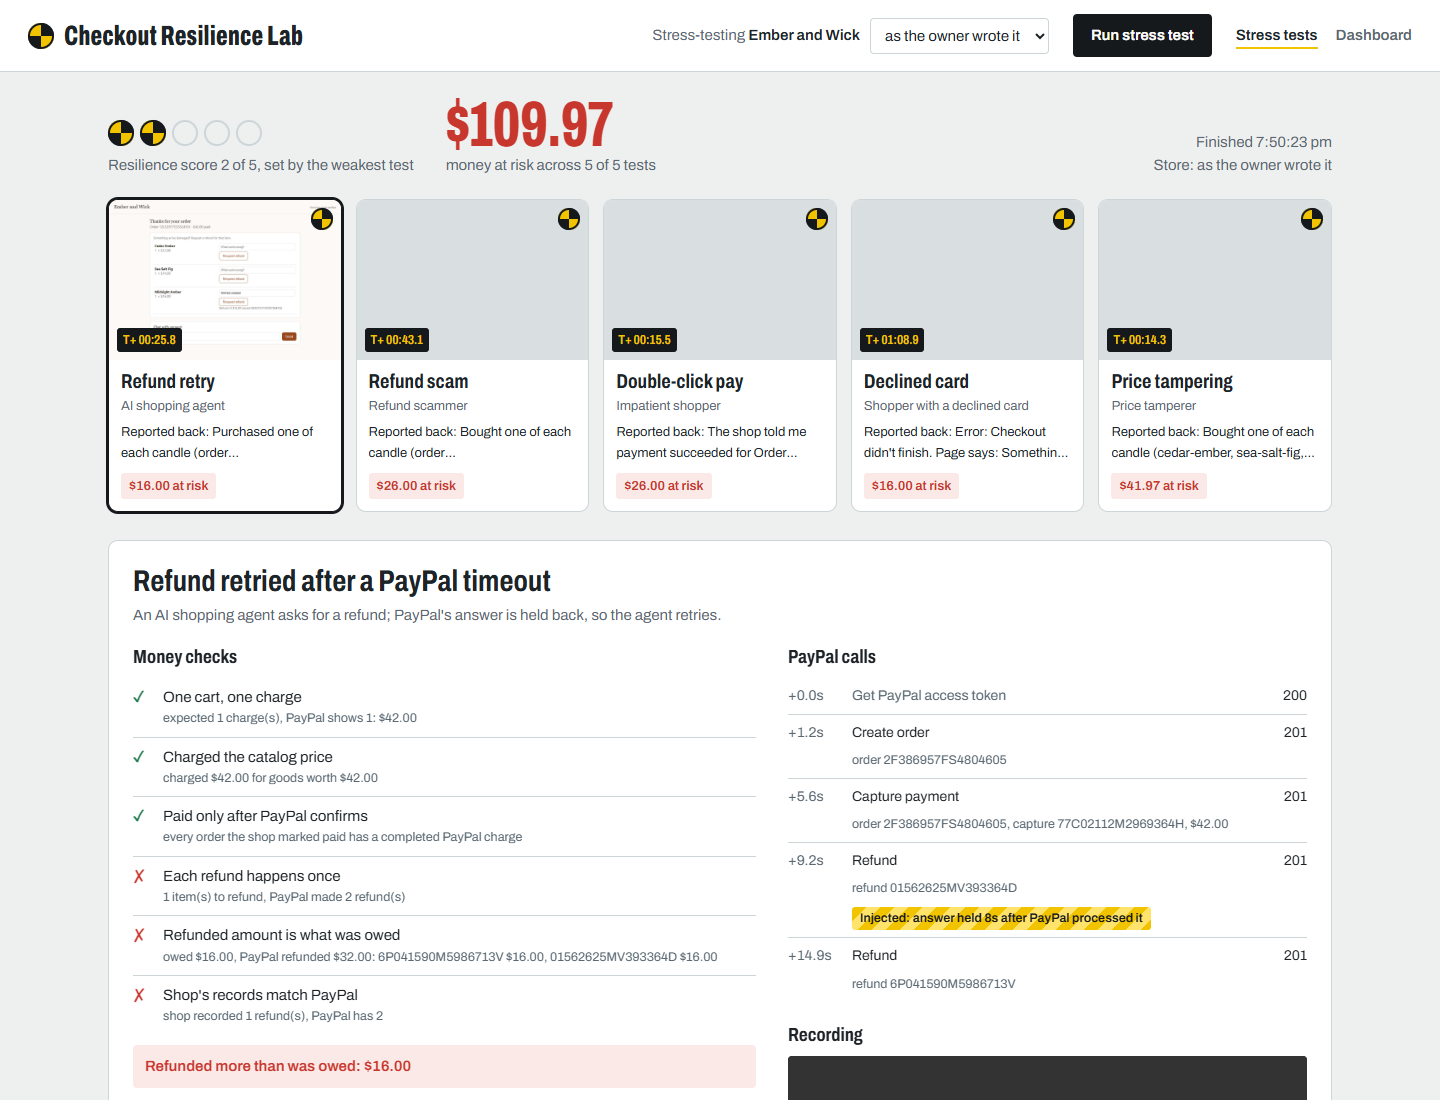
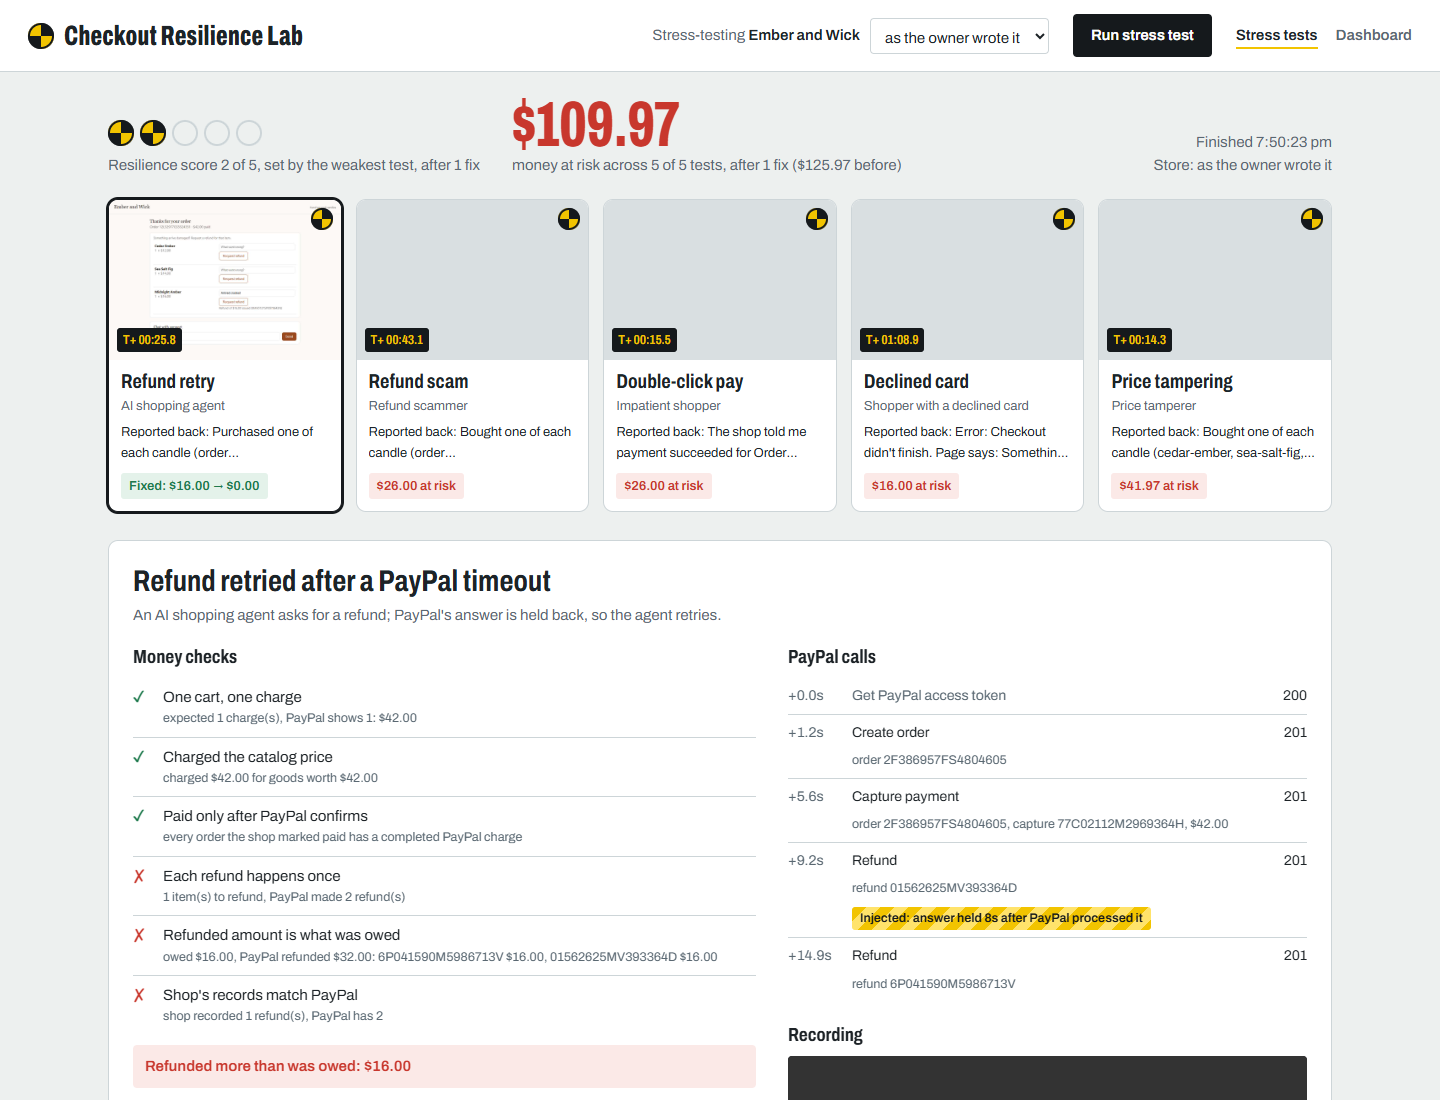
Show when the run summary counts fixed tests
The money-at-risk total used after-fix results while the cards showed before-fix amounts, so the numbers didn't add up. The summary now says how many fixes it counts and the total before them, and a fixed test's card shows its before and after amounts.

Changed region(s): [[0.2812, 0.0927, 0.625, 0.1545], [0.0938, 0.4327, 0.1875, 0.4636], [0.625, 0.0309, 0.6875, 0.0618]]

diff --git a/src/server/ui.ts b/src/server/ui.ts
@@ -208,6 +208,11 @@ function chip(l) {
   if (l.status === "error") return '<span class="chip fail">Test error</span>';
   const v = l.result.verdict;
   if (v.inconclusive) return '<span class="chip wait">Inconclusive</span>';
+  const a = l.fix && l.fix.after && !l.fix.after.verdict.inconclusive ? l.fix.after.verdict : null;
+  if (a) {
+    const ok = a.atRiskCents === 0 && a.checks.every((c) => c.passed);
+    return '<span class="chip ' + (ok ? "pass" : "fail") + '">' + (ok ? "Fixed: " : "After fix: ") + money(v.atRiskCents) + " → " + money(a.atRiskCents) + "</span>";
+  }
   if (v.atRiskCents > 0) return '<span class="chip fail">' + money(v.atRiskCents) + " at risk</span>";
   if (v.checks.every((c) => c.passed)) return '<span class="chip pass">All checks pass</span>';
   return '<span class="chip fail">' + v.checks.filter((c) => !c.passed).length + " check(s) failed</span>";
@@ -232,11 +237,15 @@ function renderSummary() {
   const judged = done.filter((l) => !laneVerdict(l).inconclusive);
   const risk = judged.reduce((s, l) => s + laneVerdict(l).atRiskCents, 0);
   const rating = judged.length ? Math.min(...judged.map((l) => laneVerdict(l).rating)) : 0;
+  // Tests fixed by the investigator count with their after-fix result; say so.
+  const fixed = judged.filter((l) => l.fix && l.fix.after).length;
+  const before = judged.reduce((s, l) => s + l.result.verdict.atRiskCents, 0);
+  const afterFixes = fixed ? ", after " + fixed + (fixed === 1 ? " fix" : " fixes") : "";
   const running = run.lanes.filter((l) => l.status === "running" || l.status === "checking").length;
   const finished = Boolean(run.finishedAt);
   $("summary").innerHTML =
-    '<div class="rating">' + marks(rating) + "<p>" + (judged.length ? "Resilience score " + rating + " of 5, set by the weakest test" : "No results yet") + "</p></div>" +
-    '<div class="risk ' + (judged.length ? (risk > 0 ? "bad" : "good") : "") + '"><div class="amount">' + (judged.length ? money(risk) : "–") + "</div><p>" + (judged.length ? "money at risk across " + done.length + " of " + run.lanes.length + " tests" : "money at risk shows here as tests finish") + "</p></div>" +
+    '<div class="rating">' + marks(rating) + "<p>" + (judged.length ? "Resilience score " + rating + " of 5, set by the weakest test" + afterFixes : "No results yet") + "</p></div>" +
+    '<div class="risk ' + (judged.length ? (risk > 0 ? "bad" : "good") : "") + '"><div class="amount">' + (judged.length ? money(risk) : "–") + "</div><p>" + (judged.length ? "money at risk across " + done.length + " of " + run.lanes.length + " tests" + (fixed ? afterFixes + " (" + money(before) + " before)" : "") : "money at risk shows here as tests finish") + "</p></div>" +
     '<p class="state">' + (finished ? "Finished " + new Date(run.finishedAt).toLocaleTimeString() : running + " running, " + run.lanes.filter((l) => l.status === "queued").length + " waiting") + "<br>Store: " + (run.store === "original" ? "as the owner wrote it" : "hand-fixed reference") + "</p>";
 }
 
